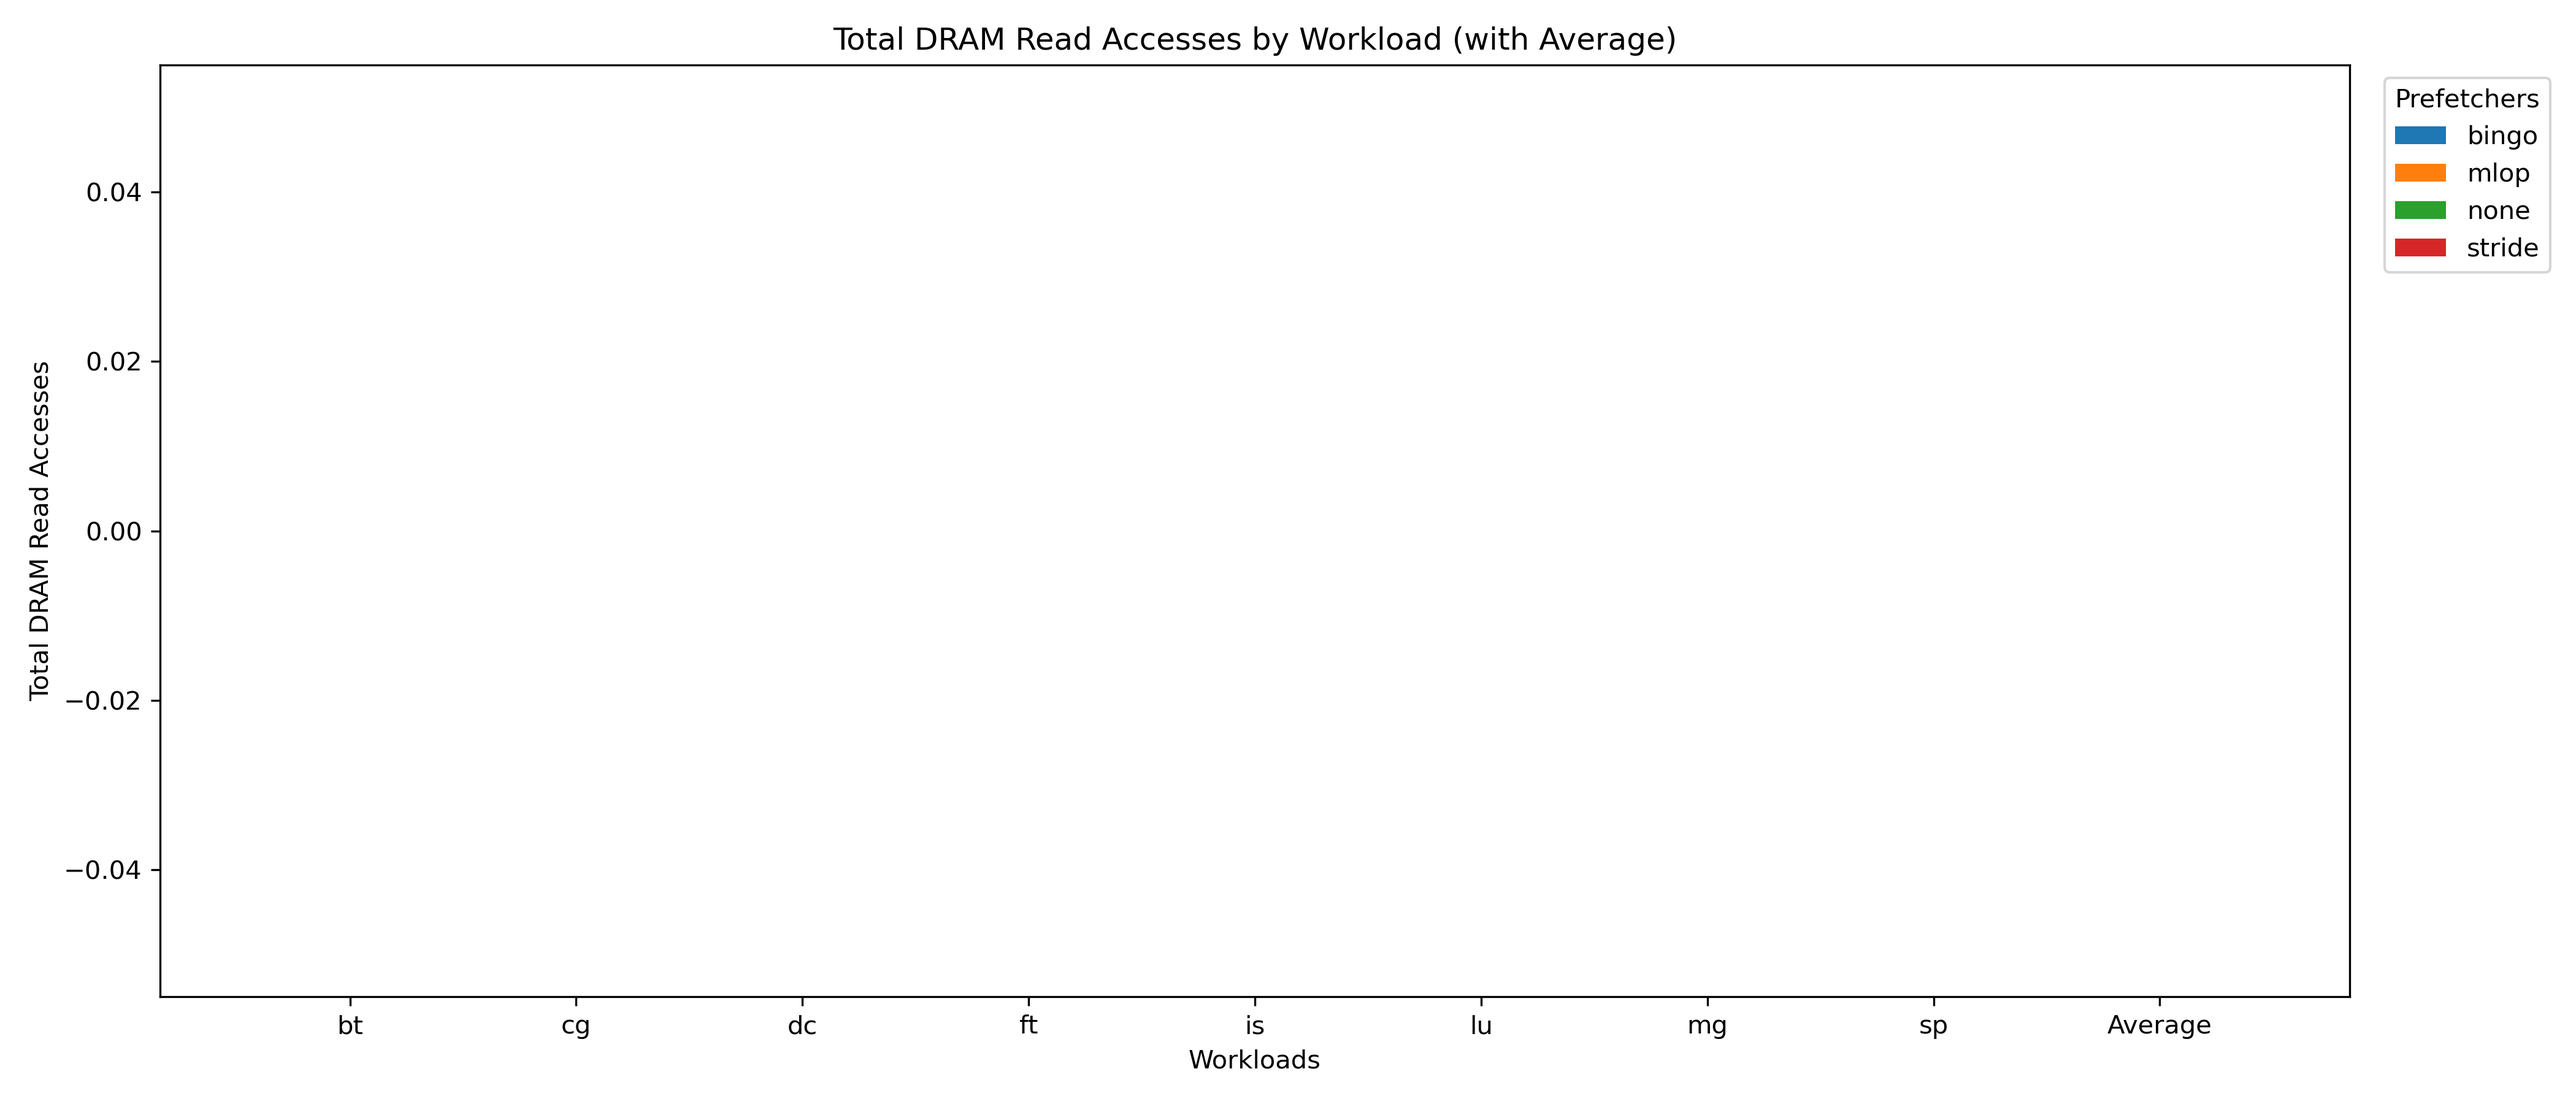
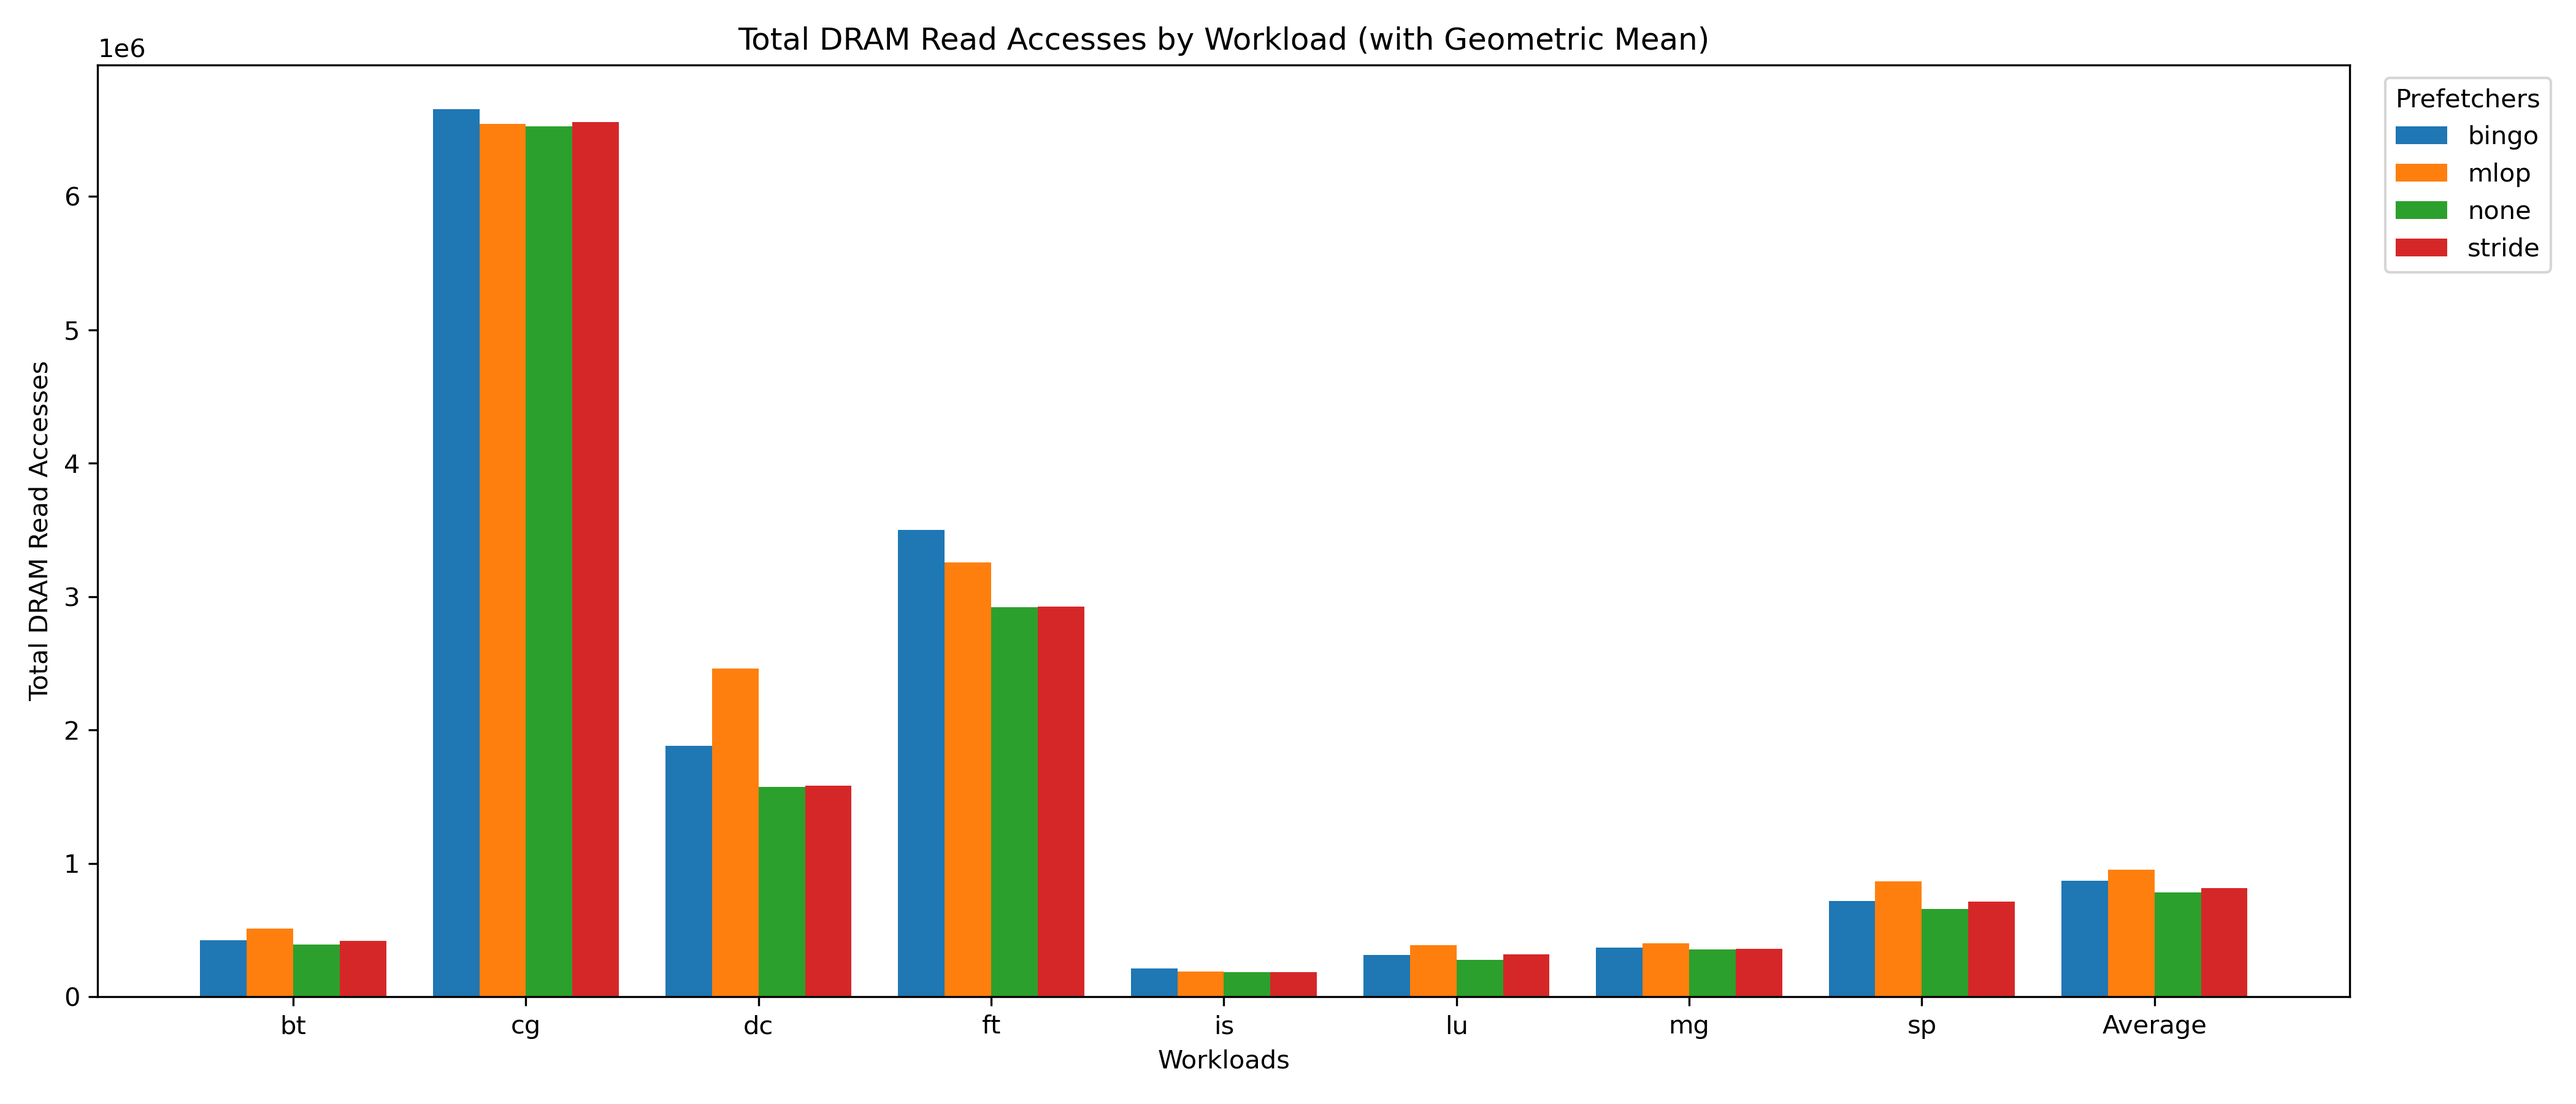
more graph stuff

diff --git a/make_graphs.py b/make_graphs.py
@@ -7,39 +7,49 @@ M5OUT_DIR = "m5out"  # The root folder containing the prefetcher folders
 OUTPUT_DIR = "stat_graphs" # Where to save the resulting images
 
 # Map specific gem5 stat keys to readable names
-# format: ('Readable Name', 'primary_stat_key', 'secondary_stat_key_for_division')
+# format: 
+# 'name': Readable title for the graph
+# 'file_key': Exact string to match in stats.txt
+# 'is_ratio': If True, uses numerator/denominator fields instead of file_key
+# 'prefetch_related': If True, "none" prefetcher will be excluded from the plot
 METRICS = [
     {
         "name": "IPC",
         "file_key": "system.cpu.ipc",
-        "is_ratio": False
+        "is_ratio": False,
+        "prefetch_related": False
     },
     {
         "name": "Prefetch Accuracy",
         "file_key": "system.l2cache.prefetcher.accuracy",
-        "is_ratio": False
+        "is_ratio": False,
+        "prefetch_related": True
     },
     {
         "name": "Prefetch Coverage",
         "file_key": "system.l2cache.prefetcher.coverage",
-        "is_ratio": False
+        "is_ratio": False,
+        "prefetch_related": True
     },
     {
         "name": "Late Prefetches Ratio",
         "numerator": "system.l2cache.prefetcher.pfLate",
         "denominator": "system.l2cache.prefetcher.pfIssued",
-        "is_ratio": True
+        "is_ratio": True,
+        "prefetch_related": True
     },
     {
         "name": "Unused Prefetches Ratio",
         "numerator": "system.l2cache.prefetcher.pfUnused",
         "denominator": "system.l2cache.prefetcher.pfIssued",
-        "is_ratio": True
+        "is_ratio": True,
+        "prefetch_related": True
     },
     {
         "name": "Total DRAM Read Accesses",
-        "file_key": "system.mem_ctrl.dram.numReads",
-        "is_ratio": False
+        "file_key": "system.mem_ctrl.dram.numReads::total",
+        "is_ratio": False,
+        "prefetch_related": False
     }
 ]
 
@@ -115,36 +125,53 @@ def collect_data():
 
     return data
 
+def calculate_geomean(values):
+    """
+    Calculates geometric mean of a list of values.
+    Returns 0.0 if any value is <= 0 (standard definition strictness for this context).
+    """
+    a = np.array(values)
+    if len(a) == 0:
+        return 0.0
+    
+    # Handle zeros: if any value is 0, geometric mean is 0
+    if np.any(a <= 0):
+        return 0.0
+        
+    # Geometric mean = exp(mean(log(x)))
+    return np.exp(np.mean(np.log(a)))
+
 def add_average_group(data):
     """
-    Calculates the arithmetic mean for each metric across all workloads 
+    Calculates the GEOMETRIC MEAN for each metric across all workloads 
     and adds an 'Average' entry to the data dictionary.
     """
     if not data:
         return
 
     # Identify all prefetchers present in the data
-    # We scan all workloads to ensure we catch every prefetcher
     all_prefetchers = set()
     for w in data:
         all_prefetchers.update(data[w].keys())
     
-    num_workloads = len(data)
-    average_data = {p: {m['name']: 0.0 for m in METRICS} for p in all_prefetchers}
+    # Create structure for average data
+    average_data = {p: {} for p in all_prefetchers}
 
-    # Sum up values
+    # Collect lists of values to calculate gmean later
+    temp_values = {p: {m['name']: [] for m in METRICS} for p in all_prefetchers}
+
     for workload in data:
         for prefetcher in all_prefetchers:
-            # If a specific prefetcher missed a workload, it defaults to 0 here
             p_data = data[workload].get(prefetcher, {})
             for metric in METRICS:
                 m_name = metric['name']
-                average_data[prefetcher][m_name] += p_data.get(m_name, 0.0)
+                val = p_data.get(m_name, 0.0)
+                temp_values[prefetcher][m_name].append(val)
 
-    # Divide by count to get average
-    for prefetcher in average_data:
-        for m_name in average_data[prefetcher]:
-            average_data[prefetcher][m_name] /= num_workloads
+    # Calculate Geometric Mean
+    for prefetcher in temp_values:
+        for m_name, values in temp_values[prefetcher].items():
+            average_data[prefetcher][m_name] = calculate_geomean(values)
 
     # Add to main data structure
     data['Average'] = average_data
@@ -157,60 +184,65 @@ def plot_data(data):
     if not os.path.exists(OUTPUT_DIR):
         os.makedirs(OUTPUT_DIR)
 
-    # Get sorted lists for consistent plotting
-    # We separate 'Average' to ensure it is appended at the very end
+    # Sort workloads and append Average at the end
     workload_keys = [k for k in data.keys() if k != 'Average']
     workloads = sorted(workload_keys)
-    
-    # If 'Average' exists in data, add it to the end of the list
     if 'Average' in data:
         workloads.append('Average')
     
-    # Find all unique prefetchers encountered
-    all_prefetchers = set()
+    # Identify all available prefetchers
+    all_prefetchers_in_data = set()
     for w in data:
-        all_prefetchers.update(data[w].keys())
-    prefetchers = sorted(list(all_prefetchers))
-
-    # X-axis setup
-    x = np.arange(len(workloads))
-    width = 0.8 / len(prefetchers)  # Calculate bar width based on number of prefetchers
+        all_prefetchers_in_data.update(data[w].keys())
+    sorted_all_prefetchers = sorted(list(all_prefetchers_in_data))
 
     # Generate one graph per metric
     for metric in METRICS:
         metric_name = metric["name"]
         
-        fig, ax = plt.subplots(figsize=(14, 6)) # Slightly wider to accommodate Average
+        # Determine which prefetchers to show for this specific graph
+        prefetchers_to_plot = []
+        for p in sorted_all_prefetchers:
+            # If graph is prefetch_related, skip "none" (case insensitive)
+            if metric["prefetch_related"] and p.lower() == "none":
+                continue
+            prefetchers_to_plot.append(p)
+            
+        if not prefetchers_to_plot:
+            print(f"Skipping plot for {metric_name}: No relevant prefetchers found.")
+            continue
+
+        # Setup plot
+        x = np.arange(len(workloads))
+        width = 0.8 / len(prefetchers_to_plot)
+        fig, ax = plt.subplots(figsize=(14, 6))
         
-        # Create bars for each prefetcher
-        for i, prefetcher in enumerate(prefetchers):
+        # Create bars
+        for i, prefetcher in enumerate(prefetchers_to_plot):
             y_values = []
             for workload in workloads:
-                # Get value, default to 0 if missing for specific combo
                 val = data.get(workload, {}).get(prefetcher, {}).get(metric_name, 0.0)
                 y_values.append(val)
             
-            # Calculate offset for grouped bars
+            # Grouping offset
             offset = width * i
-            # Center the group around the tick
-            centering = (width * len(prefetchers)) / 2
+            centering = (width * len(prefetchers_to_plot)) / 2
             
-            # Plot the bars
             ax.bar(x + offset - centering + (width/2), y_values, width, label=prefetcher)
 
         # Formatting
         ax.set_xlabel('Workloads')
         ax.set_ylabel(metric_name)
-        ax.set_title(f'{metric_name} by Workload (with Average)')
+        ax.set_title(f'{metric_name} by Workload (with Geometric Mean)')
         ax.set_xticks(x)
         ax.set_xticklabels(workloads)
         
-        # Move legend outside the plot area
+        # Legend
         ax.legend(title="Prefetchers", bbox_to_anchor=(1.01, 1), loc='upper left')
         
         plt.tight_layout()
         
-        # Save file
+        # Save
         filename = f"{metric_name.replace(' ', '_').lower()}.png"
         save_path = os.path.join(OUTPUT_DIR, filename)
         plt.savefig(save_path, dpi=300)
@@ -222,7 +254,7 @@ if __name__ == "__main__":
     processed_data = collect_data()
     
     if processed_data:
-        print(f"Found {len(processed_data)} workloads. Calculating averages...")
+        print(f"Found {len(processed_data)} workloads. Calculating geometric means...")
         add_average_group(processed_data)
         plot_data(processed_data)
         print("Done!")
